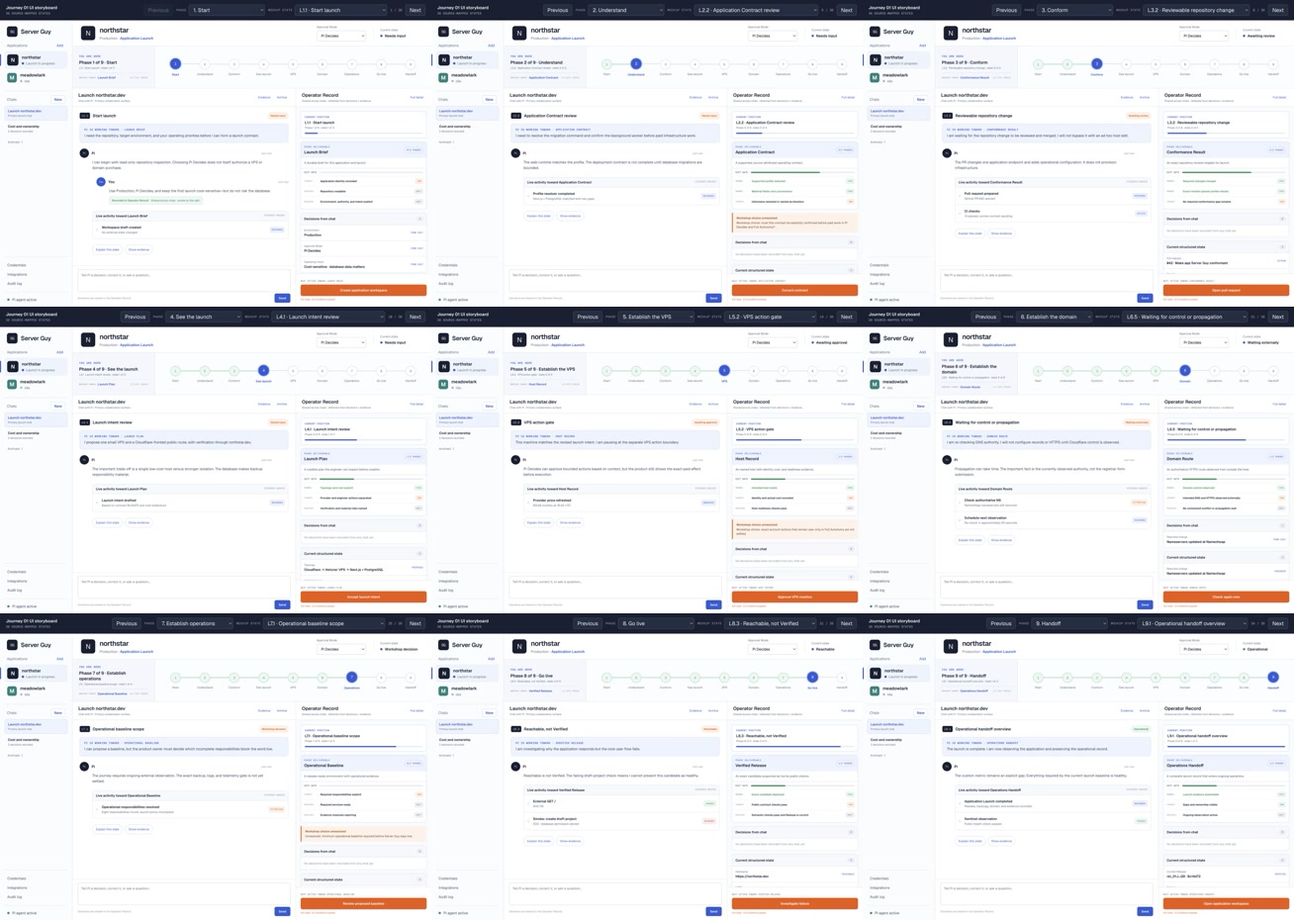
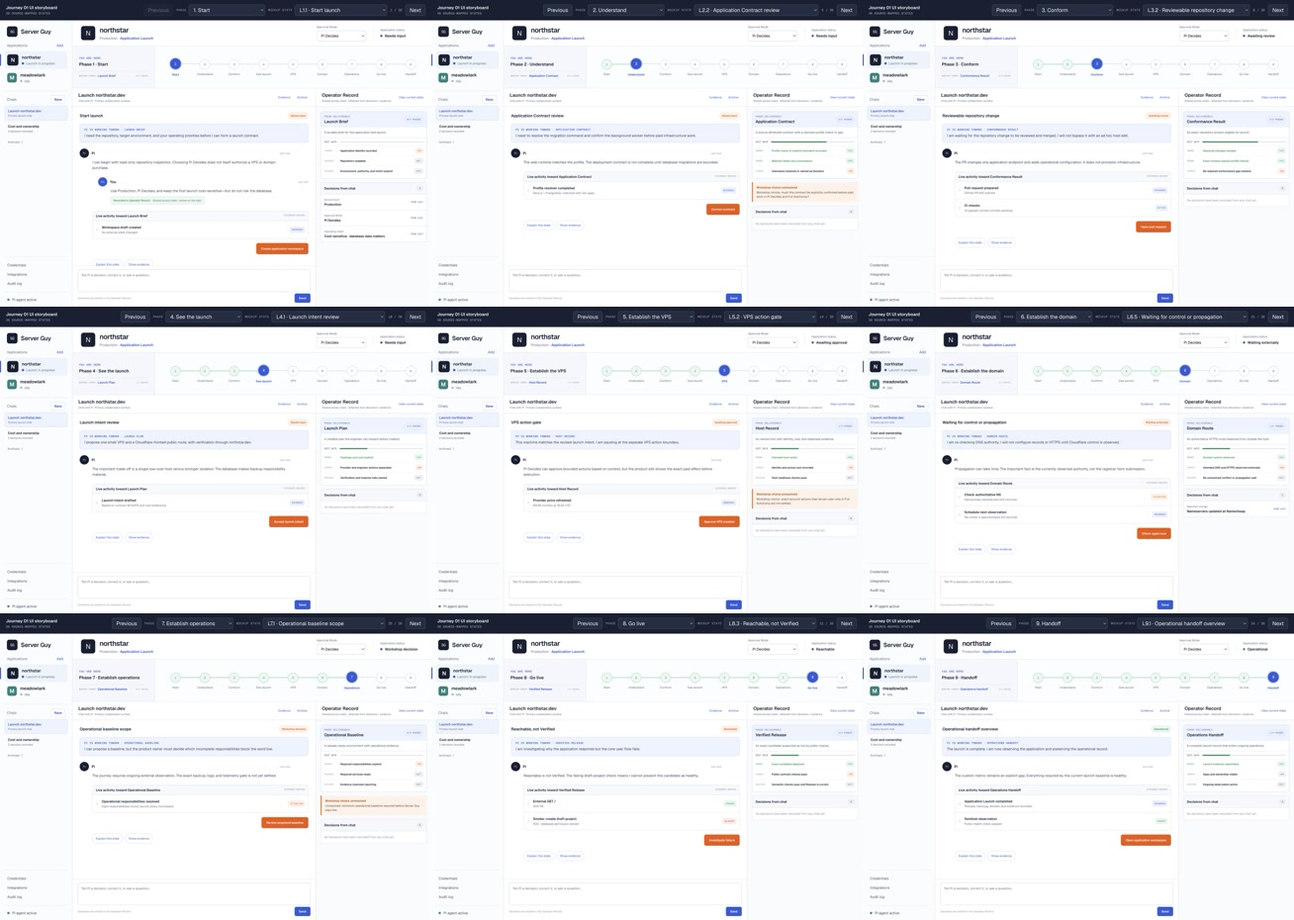
prototype: simplify launch operator record

diff --git a/prototypes/application-launch-ui/src/styles.css b/prototypes/application-launch-ui/src/styles.css
@@ -63,29 +63,27 @@ body { margin: 0; min-width: 1180px; min-height: 100vh; background: #e9edf4; -we
 .phase-rail button > span { width: 31px; height: 31px; position: relative; z-index: 1; display: grid; place-items: center; border: 1px solid var(--line-strong); border-radius: 50%; background: white; color: #596579; font-family: var(--mono); font-size: 9px; }.phase-rail button > small { max-width: 100%; overflow: hidden; text-overflow: ellipsis; white-space: nowrap; font-size: 9px; }
 .phase-rail button.active > span { width: 38px; height: 38px; margin-top: -4px; border: 3px solid #bed0ff; background: var(--blue); color: white; font-size: 11px; }.phase-rail button.active > small { color: var(--blue); font-weight: 650; }.phase-rail button.completed > span { border-color: #8fd0ad; background: var(--green-soft); color: var(--green); }.phase-rail button.completed::after { background: #8fd0ad; }
 
-.workspace-body { min-height: 0; overflow: hidden; display: grid; grid-template-columns: minmax(590px, 1.65fr) minmax(360px, 1fr); }
+.workspace-body { min-height: 0; overflow: hidden; display: grid; grid-template-columns: minmax(640px, 1.9fr) minmax(330px, .9fr); }
 .chat-panel { min-width: 0; min-height: 0; height: 100%; overflow: hidden; display: grid; grid-template-rows: 56px minmax(0, 1fr) 124px; border-right: 1px solid var(--line); background: white; }
 .chat-header, .record-header { display: flex; align-items: center; justify-content: space-between; padding: 0 18px; border-bottom: 1px solid var(--line); background: white; }.chat-header > div:first-child, .record-header > div { min-width: 0; display: flex; flex-direction: column; gap: 3px; }.chat-header span, .record-header span { overflow: hidden; font-size: 14px; font-weight: 650; text-overflow: ellipsis; white-space: nowrap; }.chat-header small, .record-header small { color: var(--muted); font-size: 8px; }.chat-header button, .record-header button { border: 0; background: transparent; color: var(--blue); font-size: 9px; cursor: pointer; }
 .chat-header-actions { flex: 0 0 auto; display: flex; align-items: center; gap: 4px; }.chat-header-actions button { padding: 6px 8px; border-radius: 5px; }.chat-header-actions button:hover { background: var(--blue-soft); }
-.chat-scroll { overflow-y: auto; padding: 17px 22px 22px; }.chat-stage-label { display: flex; align-items: center; gap: 8px; margin-bottom: 14px; }.chat-stage-label > span { padding: 4px 6px; border-radius: 4px; background: #172033; color: white; font-family: var(--mono); font-size: 8px; }.chat-stage-label > strong { font-size: 12px; }.chat-stage-label > em { margin-left: auto; padding: 4px 7px; border: 1px solid transparent; border-radius: 999px; font-size: 8px; font-style: normal; font-weight: 600; }
+.chat-scroll { overflow-y: auto; padding: 17px 22px 22px; }.chat-stage-label { display: flex; align-items: center; gap: 8px; margin-bottom: 14px; }.chat-stage-label > strong { font-size: 12px; }.chat-stage-label > em { margin-left: auto; padding: 4px 7px; border: 1px solid transparent; border-radius: 999px; font-size: 8px; font-style: normal; font-weight: 600; }
 .intent-card { padding: 12px 13px; margin-bottom: 18px; border: 1px solid #cbd9f6; border-radius: 7px; background: var(--blue-soft); }.intent-card span { display: block; margin-bottom: 5px; color: var(--blue); font-family: var(--mono); font-size: 8px; font-weight: 600; letter-spacing: .06em; text-transform: uppercase; }.intent-card p { margin: 0; color: #31415e; font-size: 11px; line-height: 1.5; }
 .message { position: relative; max-width: 92%; padding-left: 38px; margin: 0 0 20px; }.user-message { margin-left: 8%; }.speaker { min-height: 28px; display: flex; align-items: center; gap: 8px; margin-left: -38px; }.speaker > span { width: 28px; height: 28px; display: grid; place-items: center; border-radius: 50%; color: white; font-family: var(--mono); font-size: 7px; }.pi-avatar { background: #172033; }.user-avatar { background: var(--blue); }.speaker strong { font-size: 11px; }.speaker time { margin-left: auto; color: var(--soft); font-size: 8px; }.message > p { margin: 5px 0 0; color: #3e4b61; font-size: 11px; line-height: 1.55; }
 .inline-receipt { display: inline-flex; align-items: center; gap: 8px; margin-top: 8px; padding: 6px 8px; border: 1px solid #c9ead9; border-radius: 5px; background: var(--green-soft); }.inline-receipt strong { color: var(--green); font-size: 8px; }.inline-receipt span { color: #577463; font-size: 8px; }
 .activity-block { margin: 0 0 18px 38px; border: 1px solid var(--line); border-radius: 7px; overflow: hidden; background: white; }.activity-label { display: flex; justify-content: space-between; padding: 8px 10px; border-bottom: 1px solid var(--line); background: #f7f9fc; }.activity-label span { font-size: 10px; font-weight: 600; }.activity-label small { color: var(--soft); font-family: var(--mono); font-size: 7px; text-transform: uppercase; }
-.activity-event { width: 100%; min-height: 53px; display: grid; grid-template-columns: 9px minmax(0, 1fr) auto; align-items: center; gap: 9px; padding: 8px 10px; border: 0; border-bottom: 1px solid var(--line); background: white; text-align: left; cursor: pointer; }.activity-event:last-child { border-bottom: 0; }.event-marker { width: 7px; height: 7px; border-radius: 50%; border: 1px solid transparent; }.activity-event strong { display: block; margin-bottom: 3px; font-size: 10px; }.activity-event small { display: block; overflow: hidden; color: var(--muted); font-size: 9px; text-overflow: ellipsis; white-space: nowrap; }.activity-event em, .compact-item > em { padding: 3px 5px; border: 1px solid transparent; border-radius: 4px; font-family: var(--mono); font-size: 7px; font-style: normal; text-transform: uppercase; }
+.activity-event { width: 100%; min-height: 53px; display: grid; grid-template-columns: 9px minmax(0, 1fr) auto; align-items: center; gap: 9px; padding: 8px 10px; border: 0; border-bottom: 1px solid var(--line); background: white; text-align: left; cursor: pointer; }.activity-event:last-child { border-bottom: 0; }.event-marker { width: 7px; height: 7px; border-radius: 50%; border: 1px solid transparent; }.activity-event strong { display: block; margin-bottom: 3px; font-size: 10px; }.activity-event small { display: block; overflow: hidden; color: var(--muted); font-size: 9px; text-overflow: ellipsis; white-space: nowrap; }.activity-event em { padding: 3px 5px; border: 1px solid transparent; border-radius: 4px; font-family: var(--mono); font-size: 7px; font-style: normal; text-transform: uppercase; }
+.chat-primary-action { display: flex; justify-content: flex-end; margin: -5px 0 16px 38px; }.chat-primary-action button { min-height: 34px; padding: 0 14px; border: 1px solid var(--orange); border-radius: 6px; background: var(--orange); color: white; font-size: 9px; font-weight: 600; cursor: pointer; }.chat-primary-action button:disabled { border-color: var(--line-strong); background: #eef1f5; color: var(--muted); cursor: not-allowed; }
 .quick-actions { display: flex; flex-wrap: wrap; gap: 7px; margin-left: 38px; }.quick-actions button { min-height: 30px; padding: 0 10px; border: 1px solid #cedbf7; border-radius: 999px; background: white; color: var(--blue); font-size: 9px; cursor: pointer; }
 .composer { display: grid; grid-template-rows: 1fr 28px; gap: 5px; padding: 10px 16px 12px; border-top: 1px solid var(--line); background: white; }.composer textarea { width: 100%; resize: none; border: 1px solid var(--line-strong); border-radius: 6px; padding: 10px; color: var(--ink); outline: 0; font-size: 10px; }.composer textarea:focus { border-color: var(--blue); box-shadow: 0 0 0 2px rgba(36, 88, 211, .1); }.composer > div { display: flex; align-items: center; justify-content: space-between; }.composer > div > span { color: var(--soft); font-size: 8px; }.composer .send-button { height: 28px; padding: 0 13px; border: 0; border-radius: 5px; background: var(--blue); color: white; font-size: 9px; font-weight: 600; cursor: pointer; }
 
-.operator-record { min-width: 0; min-height: 0; height: 100%; overflow: hidden; display: grid; grid-template-rows: 56px minmax(0, 1fr) 100px; background: #fafbfd; }.record-scroll { min-height: 0; overflow-y: auto; padding: 14px; }
-.position-card { padding: 12px; margin-bottom: 11px; border: 1px solid #cbd9f6; border-radius: 7px; background: white; }.position-card > span { display: block; color: var(--blue); font-family: var(--mono); font-size: 7px; font-weight: 600; text-transform: uppercase; letter-spacing: .07em; }.position-card > strong { display: block; margin: 5px 0 3px; font-size: 11px; }.position-card > small { display: block; color: var(--muted); font-size: 8px; }.position-card > div { height: 4px; margin-top: 10px; overflow: hidden; border-radius: 3px; background: #e5e9f0; }.position-card > div > i { display: block; height: 100%; border-radius: 3px; background: var(--blue); }
+.operator-record { min-width: 0; min-height: 0; height: 100%; overflow: hidden; display: grid; grid-template-rows: 56px minmax(0, 1fr); background: #fafbfd; }.record-scroll { min-height: 0; overflow-y: auto; padding: 14px; }
 .phase-contract-card { margin-bottom: 11px; overflow: hidden; border: 1px solid #cbd9f6; border-radius: 7px; background: white; }.deliverable-heading { min-height: 48px; display: flex; align-items: center; justify-content: space-between; gap: 10px; padding: 9px 10px; background: var(--blue-soft); }.deliverable-heading > div { min-width: 0; }.deliverable-heading span { display: block; margin-bottom: 3px; color: var(--blue); font-family: var(--mono); font-size: 7px; text-transform: uppercase; letter-spacing: .06em; }.deliverable-heading strong { display: block; overflow: hidden; font-size: 12px; text-overflow: ellipsis; white-space: nowrap; }.deliverable-heading > em { flex: 0 0 auto; padding: 4px 6px; border: 1px solid #c9d7f5; border-radius: 999px; color: var(--blue); font-family: var(--mono); font-size: 7px; font-style: normal; text-transform: uppercase; }.phase-contract-card > p { margin: 0; padding: 9px 10px; border-bottom: 1px solid var(--line); color: #4b5870; font-size: 9px; line-height: 1.4; }
 .gate-heading { display: grid; grid-template-columns: auto 1fr; align-items: center; gap: 9px; padding: 8px 10px 6px; }.gate-heading span { color: var(--muted); font-family: var(--mono); font-size: 7px; font-weight: 600; text-transform: uppercase; }.gate-heading i { height: 4px; overflow: hidden; border-radius: 3px; background: #e5e9f0; }.gate-heading b { display: block; height: 100%; border-radius: 3px; background: var(--green); }
 .gate-list { padding: 0 10px 7px; }.gate-item { min-height: 31px; display: grid; grid-template-columns: 42px minmax(0, 1fr) auto; align-items: center; gap: 7px; border-top: 1px solid #edf0f5; }.gate-item > span { color: var(--soft); font-family: var(--mono); font-size: 6px; text-transform: uppercase; }.gate-item > strong { overflow: hidden; font-size: 8px; font-weight: 550; text-overflow: ellipsis; white-space: nowrap; }.gate-item > em { padding: 3px 5px; border: 1px solid transparent; border-radius: 4px; font-family: var(--mono); font-size: 6px; font-style: normal; text-transform: uppercase; }.gate-item.passed > span, .gate-item.passed > strong { color: var(--green); }
 .decision-banner { padding: 10px 11px; margin-bottom: 11px; border-left: 3px solid var(--orange); background: var(--orange-soft); }.decision-banner strong { display: block; margin-bottom: 3px; color: #b64707; font-size: 9px; }.decision-banner p { margin: 0; color: #71432b; font-size: 9px; line-height: 1.4; }
 .record-section { margin-bottom: 11px; border: 1px solid var(--line); border-radius: 7px; overflow: hidden; background: white; }.record-section-title { min-height: 36px; display: flex; align-items: center; justify-content: space-between; padding: 0 10px; border-bottom: 1px solid var(--line); background: var(--wash); }.record-section-title h3 { margin: 0; font-size: 10px; }.record-section-title span { min-width: 20px; padding: 3px 5px; border-radius: 999px; background: #e8edf5; color: #5d687a; text-align: center; font-family: var(--mono); font-size: 7px; }
 .record-row { min-height: 48px; display: grid; grid-template-columns: minmax(0, 1fr) auto; align-items: center; gap: 8px; padding: 8px 10px; border-bottom: 1px solid var(--line); }.record-row:last-child { border-bottom: 0; }.record-row > div { min-width: 0; }.record-row span { display: block; margin-bottom: 3px; color: var(--muted); font-size: 8px; }.record-row strong { display: block; overflow: hidden; font-size: 10px; font-weight: 550; text-overflow: ellipsis; white-space: nowrap; }.record-row > em { color: var(--blue); font-family: var(--mono); font-size: 7px; font-style: normal; text-transform: uppercase; white-space: nowrap; }.empty-record { margin: 0; padding: 12px 10px; color: var(--soft); font-size: 9px; line-height: 1.4; }
-.compact-item { min-height: 58px; display: grid; grid-template-columns: minmax(0, 1fr) auto; align-items: center; gap: 8px; padding: 8px 10px; border-bottom: 1px solid var(--line); }.compact-item:last-child { border-bottom: 0; }.compact-item small { display: block; margin-bottom: 2px; color: var(--soft); font-size: 7px; }.compact-item strong { display: block; font-size: 10px; }.compact-item p { margin: 3px 0 0; color: var(--muted); font-size: 8px; line-height: 1.35; }
-.record-action { display: flex; flex-direction: column; justify-content: center; gap: 6px; padding: 9px 14px; border-top: 1px solid var(--line); background: white; }.record-action button { min-height: 35px; border: 1px solid var(--orange); border-radius: 6px; background: var(--orange); color: white; font-size: 10px; font-weight: 600; cursor: pointer; }.record-action button:disabled { border-color: var(--line-strong); background: #eef1f5; color: var(--muted); cursor: not-allowed; }.record-action span { color: var(--muted); font-family: var(--mono); font-size: 7px; line-height: 1.2; text-transform: uppercase; }.record-action small { font-size: 7px; }.record-action .gate-passed { color: var(--green); }.record-action .gate-open { color: var(--orange); }
 
 .progress { color: var(--blue) !important; background: var(--blue-soft) !important; border-color: #cddcff !important; }.positive { color: var(--green) !important; background: var(--green-soft) !important; border-color: #c9ead9 !important; }.warning { color: var(--orange) !important; background: var(--orange-soft) !important; border-color: #ffd9c3 !important; }.danger { color: var(--red) !important; background: var(--red-soft) !important; border-color: #f4caca !important; }.neutral { color: #657084 !important; background: #f0f2f5 !important; border-color: #dde1e7 !important; }
 
@@ -94,7 +92,7 @@ body { margin: 0; min-width: 1180px; min-height: 100vh; background: #e9edf4; -we
 
 @media (max-width: 1280px) {
   .product-frame { grid-template-columns: 190px minmax(960px, 1fr); }
-  .workspace-body { grid-template-columns: minmax(580px, 1.55fr) minmax(370px, 1fr); }
+  .workspace-body { grid-template-columns: minmax(610px, 1.75fr) minmax(340px, .9fr); }
   .storyboard-title { display: none; }.storyboard-bar { justify-content: flex-end; }
   .launch-map { grid-template-columns: 230px minmax(0, 1fr); }
 }

diff --git a/prototypes/application-launch-ui/src/App.jsx b/prototypes/application-launch-ui/src/App.jsx
@@ -81,18 +81,18 @@ function ApplicationHeader({ current, approvalMode, setApprovalMode }) {
       <div className="application-identity"><span className="large-avatar">N</span><div><h1>northstar</h1><p>Production · <strong>Application Launch</strong></p></div></div>
       <div className="header-controls">
         <label><span>Approval Mode</span><select value={approvalMode} onChange={(event) => setApprovalMode(event.target.value)}><option>Pi Decides</option><option>Full Autonomy</option><option>Always Ask</option></select></label>
-        <div className="health-control"><span>Current state</span><strong><i className={`dot ${current.tone === "success" ? "green" : "blue"}`} />{current.status}</strong></div>
+        <div className="health-control"><span>Application status</span><strong><i className={`dot ${current.tone === "success" ? "green" : "blue"}`} />{current.status}</strong></div>
       </div>
     </header>
   );
 }
 
-function LaunchMap({ current, phase, phasePosition, gateProgress, setIndex }) {
+function LaunchMap({ current, phase, gateProgress, setIndex }) {
   return (
     <section className="launch-map" aria-label="Current position in Application Launch">
       <div className="map-position">
-        <span>You are here</span><strong>Phase {current.phase} of 9 · {phase.name}</strong><small>{current.id} · {current.name} · state {phasePosition}</small>
-        <div className="map-deliverable"><em>Working toward</em><b>{phase.deliverable}</b><i>{gateProgress}/3 exit checks</i></div>
+        <span>You are here</span><strong>Phase {current.phase} · {phase.name}</strong>
+        <div className="map-deliverable"><em>Working toward</em><b>{phase.deliverable}</b><i>{gateProgress}/3 checks</i></div>
       </div>
       <nav className="phase-rail" aria-label="Application Launch phases">
         {phases.map((item) => {
@@ -116,7 +116,7 @@ function ChatMessage({ actor, text, recorded }) {
   );
 }
 
-function ChatPanel({ current, phase, session, messages, records, onSubmit, onEvidence, onArchive, onRestore }) {
+function ChatPanel({ current, phase, session, messages, records, onSubmit, onEvidence, onArchive, onRestore, onNext, phaseAdvanceBlocked }) {
   const [draft, setDraft] = useState("");
   useEffect(() => setDraft(""), [current.id, session.id]);
   function submit(event) { event.preventDefault(); const text = draft.trim(); if (!text) return; onSubmit(text); setDraft(""); }
@@ -128,12 +128,13 @@ function ChatPanel({ current, phase, session, messages, records, onSubmit, onEvi
         <div className="chat-header-actions"><button type="button" onClick={onEvidence}>Evidence</button><button type="button" onClick={session.archived ? onRestore : onArchive}>{session.archived ? "Restore" : "Archive"}</button></div>
       </div>
       <div className="chat-scroll">
-        <div className="chat-stage-label"><span>{current.id}</span><strong>{current.name}</strong><em className={statusClass(current.status)}>{current.status}</em></div>
+        <div className="chat-stage-label"><strong>{current.name}</strong><em className={statusClass(current.status)}>{current.status}</em></div>
         <section className="intent-card"><span>Pi is working toward · {phase.deliverable}</span><p>{current.intent}</p></section>
         {isLaunchSession && <ChatMessage actor="Pi" text={current.pi} />}
         {isLaunchSession && current.question && <ChatMessage actor="You" text={current.question} recorded={!/[?？]\s*$/.test(current.question) && records.length > 0} />}
         {!isLaunchSession && !messages.length && <ChatMessage actor="Pi" text={`This chat shares northstar's Operator Record. I can help with a focused question while the launch continues toward the ${phase.deliverable}.`} />}
         <section className="activity-block"><div className="activity-label"><span>Live activity toward {phase.deliverable}</span><small>Evidence-backed</small></div>{current.events.map(([title, detail, status]) => <button className="activity-event" key={`${title}-${detail}`} type="button" onClick={onEvidence}><span className={`event-marker ${statusClass(status)}`} /><span><strong>{title}</strong><small>{detail}</small></span><em className={statusClass(status)}>{status}</em></button>)}</section>
+        <div className="chat-primary-action"><button type="button" disabled={phaseAdvanceBlocked} onClick={onNext}>{phaseAdvanceBlocked ? "Complete the exit checks first" : current.primary}</button></div>
         {messages.map((message, messageIndex) => <ChatMessage key={`${message.actor}-${messageIndex}`} {...message} />)}
         <div className="quick-actions">{current.quickActions.map((label) => <button type="button" key={label}>{label}</button>)}</div>
       </div>
@@ -162,35 +163,24 @@ function PhaseContract({ phase, gateProgress, current }) {
   );
 }
 
-function OperatorRecord({ current, phase, records, phasePosition, gateProgress, onNext, onEvidence, phaseAdvanceBlocked }) {
-  const groupItems = current.groups.flatMap((group) => group.items.map((item) => ({ group: group.title, item }))).slice(0, 4);
+function OperatorRecord({ current, phase, records, gateProgress, onEvidence }) {
   return (
     <aside className="operator-record" aria-label="Operator Record">
-      <div className="record-header"><div><span>Operator Record</span><small>Shared across chats · reflected from decisions + evidence</small></div><button type="button" onClick={onEvidence}>Full detail</button></div>
+      <div className="record-header"><div><span>Operator Record</span><small>Shared across chats · reflected from decisions + evidence</small></div><button type="button" onClick={onEvidence}>View current state</button></div>
       <div className="record-scroll">
-        <section className="position-card"><span>Current position</span><strong>{current.id} · {current.name}</strong><small>Phase {current.phase} of 9 · state {phasePosition}</small><div><i style={{ width: `${(current.phase / 9) * 100}%` }} /></div></section>
         <PhaseContract phase={phase} gateProgress={gateProgress} current={current} />
         {current.decision && <div className="decision-banner"><strong>Workshop choice unresolved</strong><p>{current.decision}</p></div>}
         <section className="record-section">
           <div className="record-section-title"><h3>Decisions from chat</h3><span>{records.length}</span></div>
           {records.length ? records.map((record, recordIndex) => <RecordRow key={`${record.label}-${recordIndex}`} {...record} />) : <p className="empty-record">No decisions have been recorded from any chat yet.</p>}
         </section>
-        <section className="record-section">
-          <div className="record-section-title"><h3>Current structured state</h3><span>{current.facts.length}</span></div>
-          {current.facts.slice(0, 4).map(([label, value, provenance]) => <RecordRow key={`${label}-${value}`} label={label} value={value} meta={provenance} />)}
-        </section>
-        <section className="record-section compact-section">
-          <div className="record-section-title"><h3>What matters now</h3><span>{groupItems.length}</span></div>
-          {groupItems.map(({ group, item: [title, detail, status] }) => <div className="compact-item" key={`${group}-${title}`}><div><small>{group}</small><strong>{title}</strong><p>{detail}</p></div><em className={statusClass(status)}>{status}</em></div>)}
-        </section>
       </div>
-      <footer className="record-action"><span>Next action toward {phase.deliverable}</span><button type="button" disabled={phaseAdvanceBlocked} onClick={onNext}>{phaseAdvanceBlocked ? "Exit Gate is not passed" : current.primary}</button><small className={gateProgress === 3 ? "gate-passed" : "gate-open"}>Exit Gate · {gateProgress}/3 conditions passed</small></footer>
     </aside>
   );
 }
 
 function EvidenceDrawer({ current, phase, gateProgress, onClose }) {
-  return <div className="drawer-backdrop" onMouseDown={onClose} role="presentation"><aside className="evidence-drawer" onMouseDown={(event) => event.stopPropagation()} aria-label="Evidence details"><div className="drawer-header"><div><span>Full structured detail</span><strong>{current.id} · {current.name}</strong></div><button type="button" onClick={onClose}>Close</button></div><section><span className="drawer-label">Phase contract</span><p><strong>{phase.deliverable}</strong> · Exit Gate {gateProgress}/3 passed.</p></section><section><span className="drawer-label">Specification source</span><p>{current.source}</p></section><section><span className="drawer-label">All facts and provenance</span>{current.facts.map(([label, value, provenance]) => <RecordRow key={`${label}-${value}`} label={label} value={value} meta={provenance} />)}</section><section><span className="drawer-label">Authoritative observations</span>{current.events.map(([title, detail, status]) => <div className="drawer-event" key={title}><strong>{title}</strong><p>{detail}</p><span className={`mini-status ${statusClass(status)}`}>{status}</span></div>)}</section><section><span className="drawer-label">Record rule</span><p>Pi's prose is collaboration. Decisions and facts become durable only when they are reflected into the shared Operator Record with provenance and, where required, supporting evidence.</p></section>{current.decision && <section className="drawer-decision"><span className="drawer-label">Workshop boundary</span><p>{current.decision}</p></section>}</aside></div>;
+  return <div className="drawer-backdrop" onMouseDown={onClose} role="presentation"><aside className="evidence-drawer" onMouseDown={(event) => event.stopPropagation()} aria-label="Current application state"><div className="drawer-header"><div><span>Current application state</span><strong>{current.name} · {current.status}</strong></div><button type="button" onClick={onClose}>Close</button></div><section><span className="drawer-label">Phase contract</span><p><strong>{phase.deliverable}</strong> · Exit Gate {gateProgress}/3 passed.</p></section><section><span className="drawer-label">Specification source</span><p>{current.source}</p></section><section><span className="drawer-label">All facts and provenance</span>{current.facts.map(([label, value, provenance]) => <RecordRow key={`${label}-${value}`} label={label} value={value} meta={provenance} />)}</section><section><span className="drawer-label">Authoritative observations</span>{current.events.map(([title, detail, status]) => <div className="drawer-event" key={title}><strong>{title}</strong><p>{detail}</p><span className={`mini-status ${statusClass(status)}`}>{status}</span></div>)}</section><section><span className="drawer-label">Record rule</span><p>Pi's prose is collaboration. Decisions and facts become durable only when they are reflected into the shared Operator Record with provenance and, where required, supporting evidence.</p></section>{current.decision && <section className="drawer-decision"><span className="drawer-label">Workshop boundary</span><p>{current.decision}</p></section>}</aside></div>;
 }
 
 function initialChatRecords(current) {
@@ -211,7 +201,6 @@ export function App() {
   const gateProgress = gateProgressByState[current.id] ?? 0;
   const activeSession = sessions.find((session) => session.id === activeSessionId) || sessions[0];
   const messages = messagesBySession[activeSession.id] || [];
-  const phasePosition = useMemo(() => { const states = statesByPhase[current.phase]; return `${states.findIndex((item) => item.id === current.id) + 1} of ${states.length}`; }, [current]);
   const records = useMemo(() => [...initialChatRecords(current), ...applicationDecisions], [current, applicationDecisions]);
   const nextState = journeyStates[index + 1];
   const phaseAdvanceBlocked = Boolean(nextState && nextState.phase > current.phase && gateProgress < phase.gate.length);
@@ -267,10 +256,10 @@ export function App() {
         <AppSidebar sessions={sessions} activeSessionId={activeSession.id} showArchived={showArchived} onToggleArchived={() => setShowArchived((value) => !value)} onNewSession={newSession} onSelectSession={setActiveSessionId} />
         <div className="workspace">
           <ApplicationHeader current={current} approvalMode={approvalMode} setApprovalMode={setApprovalMode} />
-          <LaunchMap current={current} phase={phase} phasePosition={phasePosition} gateProgress={gateProgress} setIndex={setIndex} />
+          <LaunchMap current={current} phase={phase} gateProgress={gateProgress} setIndex={setIndex} />
           <div className="workspace-body">
-            <ChatPanel current={current} phase={phase} session={activeSession} messages={messages} records={records} onSubmit={submitChat} onEvidence={() => setDrawerOpen(true)} onArchive={archiveActiveSession} onRestore={restoreActiveSession} />
-            <OperatorRecord current={current} phase={phase} records={records} phasePosition={phasePosition} gateProgress={gateProgress} onNext={advance} onEvidence={() => setDrawerOpen(true)} phaseAdvanceBlocked={phaseAdvanceBlocked} />
+            <ChatPanel current={current} phase={phase} session={activeSession} messages={messages} records={records} onSubmit={submitChat} onEvidence={() => setDrawerOpen(true)} onArchive={archiveActiveSession} onRestore={restoreActiveSession} onNext={advance} phaseAdvanceBlocked={phaseAdvanceBlocked} />
+            <OperatorRecord current={current} phase={phase} records={records} gateProgress={gateProgress} onEvidence={() => setDrawerOpen(true)} />
           </div>
         </div>
       </div>

diff --git a/prototypes/application-launch-ui/design-qa.md b/prototypes/application-launch-ui/design-qa.md
@@ -7,24 +7,25 @@ final result: passed
 - Visual-language source: `qa/source-option-1-chat-prominent.png`
 - Product-state source: `../../docs/user-journeys/01-application-launch-ui-map.md`
 - Implementation capture: `qa/implementation-deliverables-L6.3.jpg`
+- On-demand state capture: `qa/implementation-current-state-drawer-L6.3.jpg`
 - Same-state side-by-side comparison: `qa/comparison-deliverables-L6.3.jpg`
 - Representative nine-phase contact sheet: `qa/contact-sheet-phases.jpg`
 - State: source Domain Setup compared with `L6.3 · Domain registered elsewhere`
 - Browser CSS viewport: `1309 × 931`
-- Device pixel ratio: `2.2`
+- Device pixel ratio: `1.1`
 - Source pixels: `1487 × 1058`
 - Implementation pixels: `1309 × 931`
 - Normalization: source scaled to `1309 × 931`; implementation retained at `1309 × 931`; comparison placed them side by side at `2618 × 931`.
 
-The source remains authoritative for the restrained developer-tool visual language, density, typography, color, and component anatomy. Its structured-pane-first composition was intentionally superseded by user direction: Chat with Pi is primary, decisions are reflected into a compact shared Operator Record, current journey position is persistent, every phase names a deliverable and Exit Gate, and application chats can be started or archived.
+The source remains authoritative for the restrained developer-tool visual language, typography, color, and component anatomy. Its structured-pane-first composition and density were intentionally superseded by user direction: Chat with Pi is primary, the Operator Record contains only the current deliverable, Exit Gate, and recorded decisions, detailed current state is opened on demand, and application chats can be started or archived.
 
 ## Full-view comparison evidence
 
-- Information architecture: the implementation gives the conversation the largest working region, keeps the shared Operator Record visible beside it, adds application-scoped chats in the sidebar, and places the nine-phase map above both.
+- Information architecture: the implementation gives the conversation the largest working region, keeps a minimal shared Operator Record beside it, adds application-scoped chats in the sidebar, and places the nine-phase map above both. The header exposes one concise application status; detailed current state is one click away.
 - Layout and spacing: application sidebar, application header, map, two-surface workspace, composer, and next-action control remain visible at the tested desktop viewport. Content-heavy regions scroll independently.
 - Typography: Geist and Geist Mono preserve the source's technical character. Deliverable, gate, provenance, and status labels remain visually subordinate to the chat content.
 - Colors: dark navy, restrained blue emphasis, green passing checks, orange current/blocking checks, and orange primary actions remain consistent with the selected direction.
-- Copy and content: every representative phase names what Pi is working toward, shows three Exit Gate conditions, and keeps the current state and evidence provenance distinct.
+- Copy and content: every representative phase names what Pi is working toward, shows three Exit Gate conditions, and keeps the concise application status separate from on-demand facts and provenance. Storyboard IDs and state counts no longer leak into product chrome.
 - Image and asset fidelity: the interface contains no content imagery or decorative illustration. Letter avatars are intentional application identity tokens; no source imagery was replaced with placeholders.
 
 ## Focused-region comparison
@@ -34,9 +35,10 @@ The normalized comparison and each original-size half were inspected for the den
 The focused check confirmed:
 
 - the active chat, New control, archived count, and selected state remain distinct;
-- the map names `Domain Route` and shows `1/3 exit checks` at `L6.3`;
+- the map names `Domain Route` and shows `1/3 checks` at `L6.3` without exposing the storyboard state ID;
 - Chat with Pi says it is working toward `Domain Route`;
-- the Operator Record names the same deliverable and shows the three Exit Gate conditions without hiding chat decisions;
+- the Operator Record contains only the same deliverable, three Exit Gate conditions, and chat decisions;
+- the header exposes the concise application status and `View current state` opens the authoritative facts and observations;
 - the composer and next action remain within the viewport.
 
 ## Interaction verification
@@ -45,9 +47,12 @@ The focused check confirmed:
 - Creating a new chat selects it and provides the same application context.
 - A statement in the new chat is reflected in the Operator Record and remains visible after switching chats; a question does not create a record.
 - Archiving the active chat moves it to the archived list; an archived chat can be opened and restored.
+- `Current position`, `Current structured state`, `What matters now`, and the Operator Record action footer are absent from the default right panel.
+- `View current state` opens a drawer containing current facts, provenance, and observations.
+- The primary product action is available inside Chat with Pi and advances the storyboard state when its gate permits.
 - `L1.3` shows a passed `3/3` Exit Gate and its primary action advances to Phase 2.
 - `L6.5` remains visibly waiting at `1/3` rather than implying the Domain Route is complete.
-- Full detail opens the evidence drawer and the fixed composer and Operator Record action remain visible.
+- `View current state` opens the state drawer, and the fixed composer plus Chat with Pi primary action remain visible.
 
 ## Comparison history
 
@@ -56,7 +61,9 @@ The focused check confirmed:
 3. The chat-primary pass added the always-visible journey map and fixed viewport overflow that hid persistent controls.
 4. User review identified that phase labels did not communicate an outcome or bar for advancement and that chats needed lifecycle controls.
 5. This pass adds nine named Phase Deliverables, three-condition Exit Gates, Pi intent tied to the current deliverable, shared Operator Record semantics, and functional new/archive/restore chat behavior.
-6. The final same-state Domain Setup comparison and nine-phase contact sheet show a consistent hierarchy with no clipped persistent controls.
+6. User annotation review found the right panel repeated current position, structured state, situational context, and the primary action even though the map and chat already carried them.
+7. The simplified pass removes those four regions, moves the primary action into Chat with Pi, retains one application status in the header, and moves detailed current state behind an explicit on-demand action.
+8. The final same-state Domain Setup comparison and nine-phase contact sheet show a consistent hierarchy with no clipped persistent controls.
 
 ## Findings
 

diff --git a/docs/user-journeys/01-application-launch-ui-map.md b/docs/user-journeys/01-application-launch-ui-map.md
@@ -18,12 +18,12 @@ This document prevents two forms of drift:
 Every mockup uses the same application workspace:
 
 1. **Application sidebar** — one workspace per application, with launch or health state.
-2. **Application header** — application identity, environment, Approval Mode, and current phase.
-3. **Launch map** — an always-visible, low-text map of the nine user-facing phases with an explicit “you are here” phase and state. It communicates progress but does not pretend Pi follows a rigid internal call sequence.
+2. **Application header** — application identity, environment, Approval Mode, and one concise current application status.
+3. **Launch map** — an always-visible, low-text map of the nine user-facing phases with an explicit “you are here” phase, current Phase Deliverable, and Exit Gate progress. Storyboard state IDs and counts are prototype coordinates and do not belong in product chrome.
 4. **Operator Sessions** — an application-scoped list of active and archived chats, with controls to start, switch, archive, and resume a session.
 5. **Chat with Pi** — the primary interaction surface containing Pi's intent, explanations, questions, decisions, and embedded tool/activity events. It always names the current Phase Deliverable Pi is working toward.
-6. **Operator Record** — a compact structured dashboard reflecting decisions made or inferred across Operator Sessions, plus the current Phase Deliverable, Exit Gate, authoritative state, actions, provenance, approvals, waits, and evidence for the selected phase.
-7. **Evidence details** — opened from structured facts or chat activity when the engineer needs provenance or raw observations.
+6. **Operator Record** — a compact persistent summary containing only the current Phase Deliverable, its Exit Gate, and decisions recognized across Operator Sessions.
+7. **Current state details** — opened on demand from the Operator Record or chat activity; this contains authoritative facts, provenance, resource identities, approvals, waits, and evidence without duplicating them in the default workspace.
 
 Conversation is the primary surface but is not, by itself, the durable source of truth. When Pi recognizes a decision, correction, constraint, or operational fact in chat, it records the structured result in the Operator Record with provenance. The user can then track and correct it there. A chat claim does not change phase status, permission, resource identity, or verification state until the reflected record carries supporting evidence.
 
@@ -41,7 +41,7 @@ Conversation is the primary surface but is not, by itself, the durable source of
 | 8. Go live | Verified Release | Exact candidate deployed; contract checks pass publicly; semantic checks pass and Release is current. |
 | 9. Handoff | Operations Handoff | Evidence assembled; gaps and ownership visible; ongoing observation active. |
 
-The prototype shows three levels deliberately: the map names the deliverable, Chat with Pi says what Pi is doing toward it, and the Operator Record shows the check-level Exit Gate. The primary advance control is disabled whenever the gate is not satisfied; Pi may still loop, investigate, or request input inside the phase.
+The prototype shows three levels deliberately: the map names the deliverable, Chat with Pi says what Pi is doing and hosts the next action, and the Operator Record shows only the check-level Exit Gate and recorded decisions. Pi may still loop, investigate, or request input inside the phase. Detailed current state remains one click away instead of occupying the persistent right panel.
 
 ## Predetermined UI versus free text
 

diff --git a/prototypes/application-launch-ui/AGENTS.md b/prototypes/application-launch-ui/AGENTS.md
@@ -14,6 +14,8 @@ Build app UI in `src/`. Keep `.openai/hosting.json`, `worker/index.js`, `scripts
 - Chat is where collaboration and decisions happen. Pi prose and embedded tool/activity evidence appear there, while recognized decisions and resulting operational state are reflected into the Operator Record with provenance.
 - Every launch phase has one named deliverable and a three-condition Exit Gate. Pi's visible intent must be framed as work toward that deliverable, and the primary advance action must not imply completion while a gate condition is unmet.
 - Operator Sessions are application-scoped chats. Users can start, switch, archive, and resume them; all sessions contribute durable outcomes to the same Operator Record.
+- Keep the default Operator Record minimal: current deliverable, Exit Gate, and decisions from chat only. Show one concise application status in the header; move detailed structured state, provenance, resources, and evidence into the on-demand current-state drawer.
+- Product actions belong in Chat with Pi, not in the Operator Record. Storyboard state IDs and counts are prototype controls and must not appear inside product chrome.
 - The launch map must always make the current phase and current mockup state obvious. Default screens should be low-text; detailed evidence is opened on demand.
 - Every Journey 01 phase needs multiple inspectable mockup states. The canonical state inventory is `docs/user-journeys/01-application-launch-ui-map.md`.
 - UI copy and product behavior must stay aligned with the journey Markdown. Unresolved workshop choices must remain visibly unresolved instead of becoming prototype defaults.

diff --git a/docs/user-journeys/01-application-launch.md b/docs/user-journeys/01-application-launch.md
@@ -57,7 +57,7 @@ The phases are a user-facing progression, not a mandatory Pi call sequence. Pi m
 - Whether the application is reachable, verified, or blocked; these are not synonyms.
 - What Pi is doing now, what requires the engineer, and what is paused without changing state.
 
-Conversation with Pi is the primary interaction surface throughout Application Launch. A persistent structured Operator Record sits beside it and reflects the current phase, decisions, facts, approvals, resources, blockers, and evidence produced through the conversation. Chat drives collaboration; the Operator Record prevents that collaboration from hiding or losing operational state.
+Conversation with Pi is the primary interaction surface throughout Application Launch. A persistent Operator Record sits beside it and shows only the current Phase Deliverable, its Exit Gate, and decisions recognized through conversation. The header carries the concise application status. Detailed facts, approvals, resources, blockers, provenance, and evidence remain available in an on-demand current-state view instead of being duplicated in the default workspace.
 
 An application may have multiple Operator Sessions. The engineer can start, switch, resume, and archive them. Each session keeps its own conversation and activity history while reading from and contributing recognized outcomes to the same application-scoped Operator Record. Archiving a session removes it from the active chat list; it does not erase decisions, evidence, or operational state already recorded.
 
